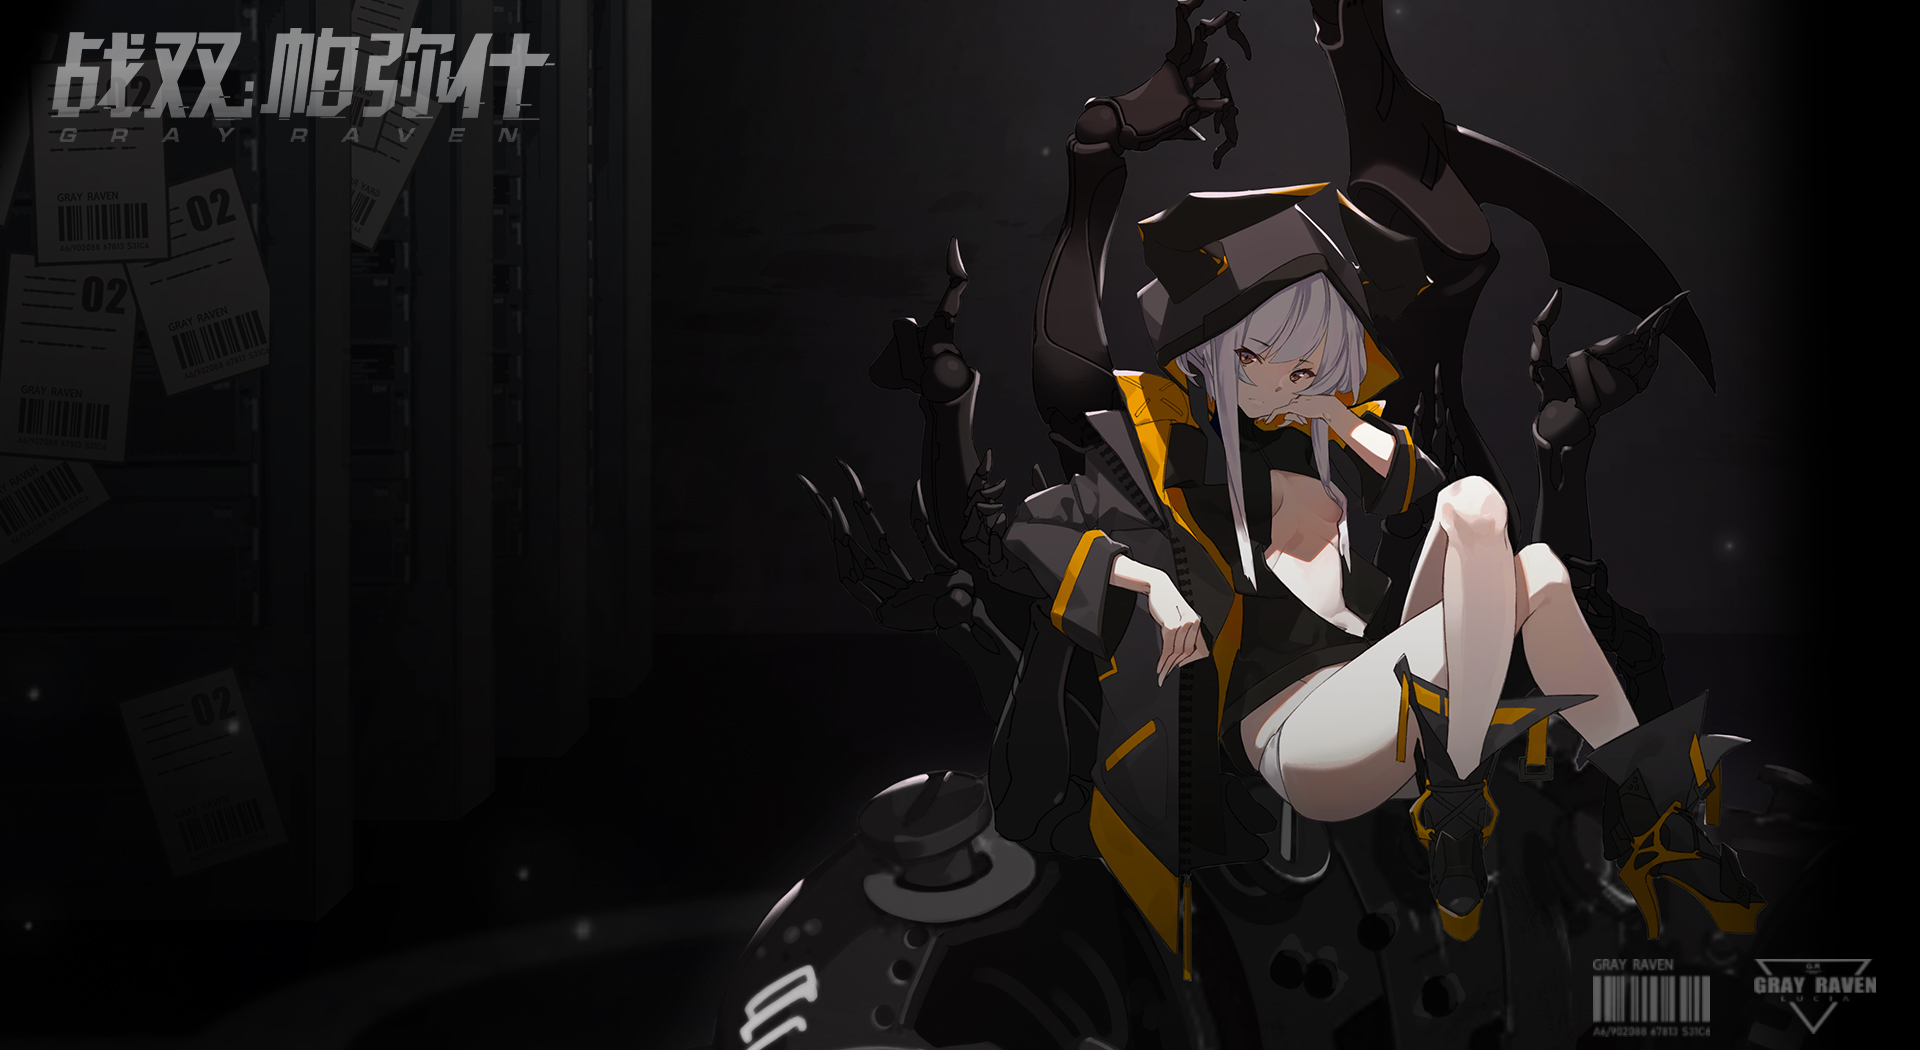
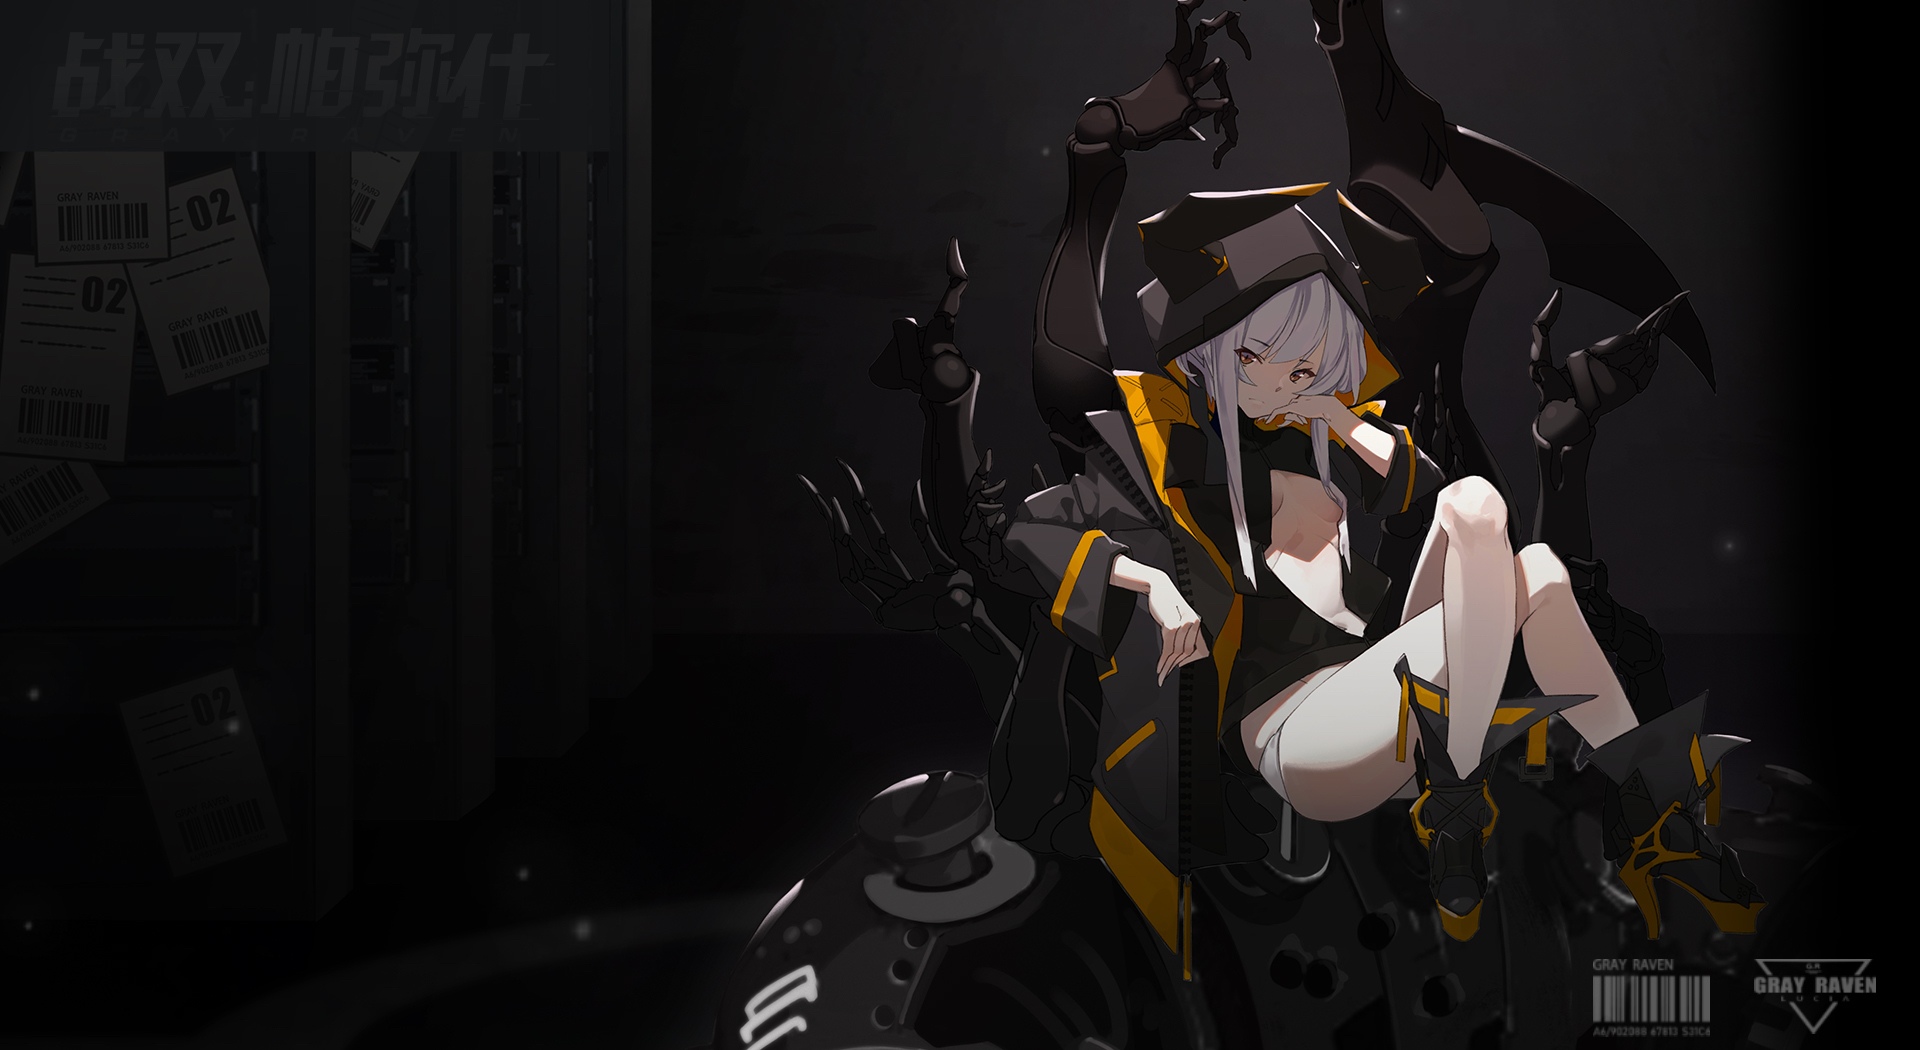
Site updated: 2019-12-10 12:43:23

Changed region(s): [[0.0312, 0.0305, 0.2812, 0.1524]]

diff --git a/css/main.css b/css/main.css
@@ -1930,7 +1930,7 @@ img:hover {
   width: 4px;
   height: 4px;
   border-radius: 50%;
-  background: #fff;
+  background: #539318;
 }
 .links-of-blogroll {
   font-size: 13px;
@@ -3118,7 +3118,7 @@ body {
   -moz-box-shadow: 0 0 5px rgba(202,203,204,0.5);
 }
 body {
-  background: url("https://images6.alphacoders.com/992/992249.jpg");
+  background: url("https://github.com/OrochiChris/zhy.github.io/blob/master/file/zs.jpg?raw=true");
   background-repeat: no-repeat;
   background-attachment: fixed;
   background-size: 100% 100%;
